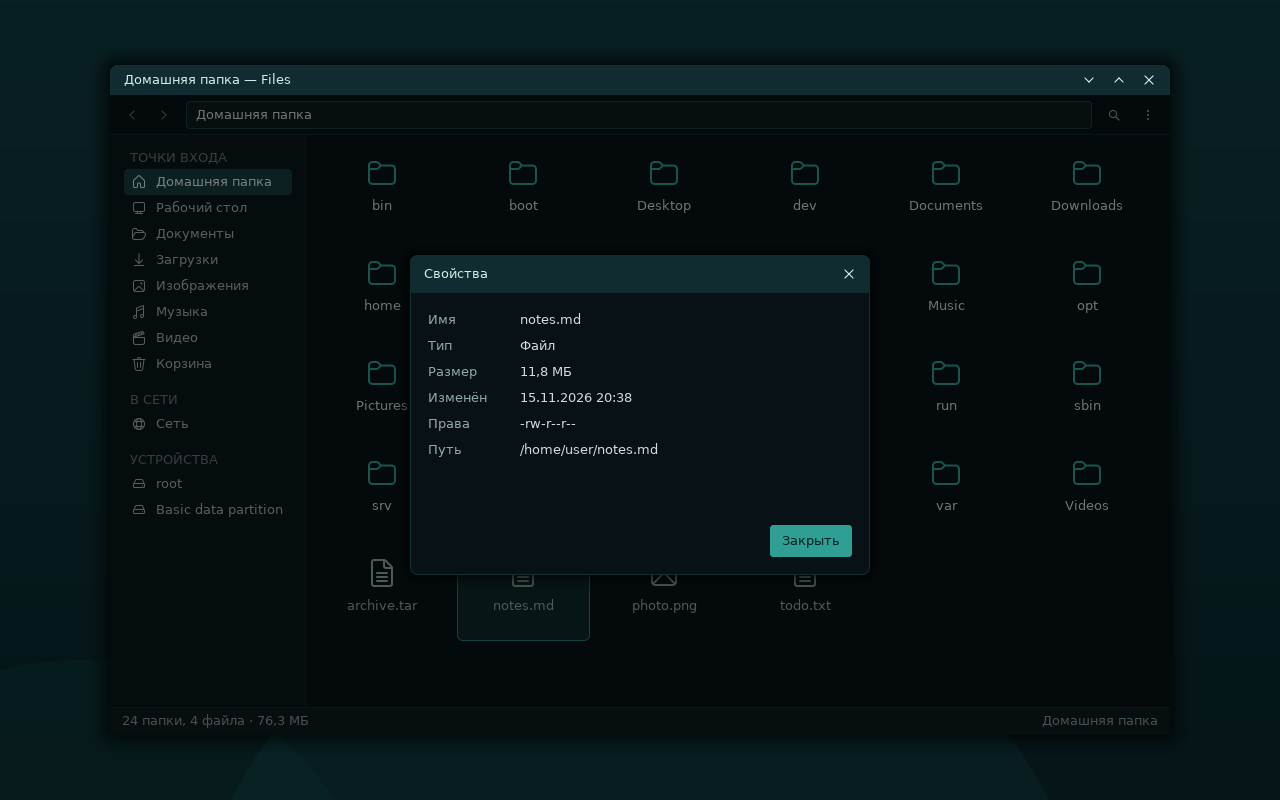
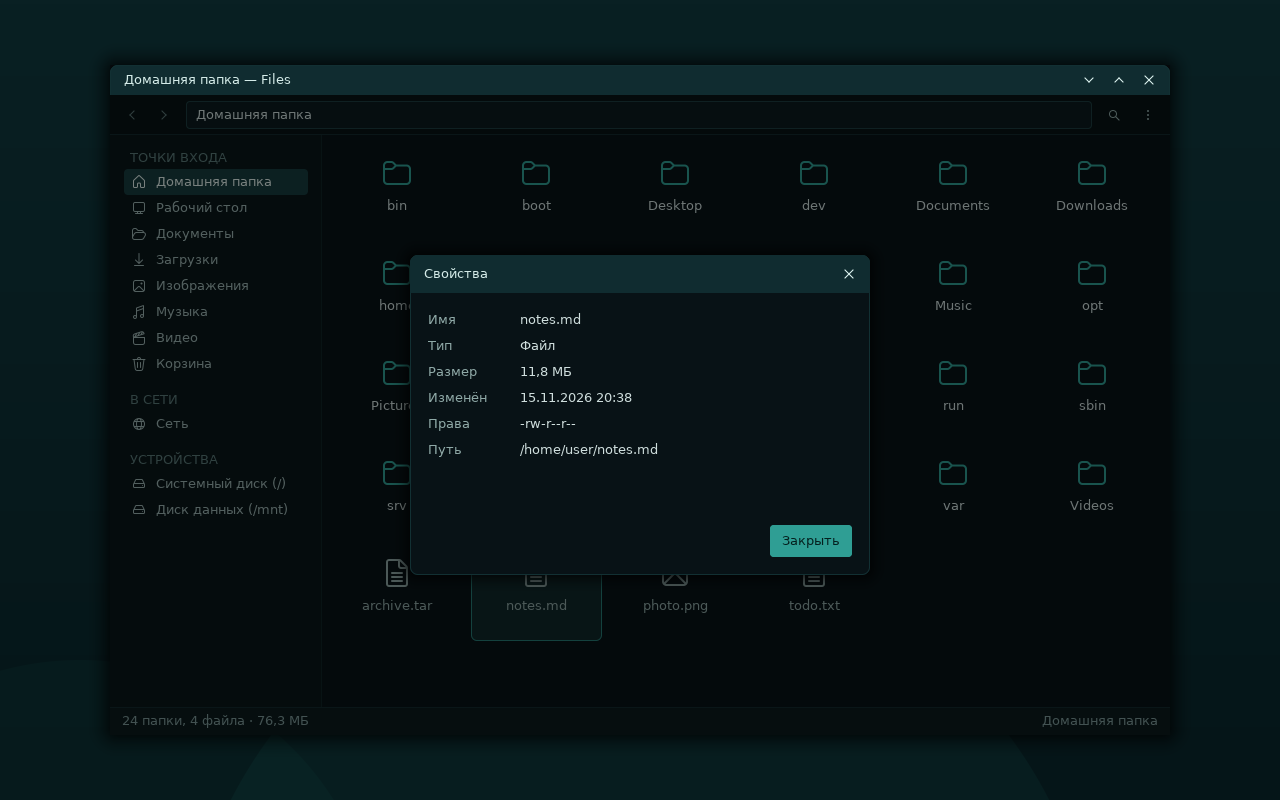
files: label devices by role with their mount paths
Секция «УСТРОЙСТВА» показывала «root» и «Basic data partition» — это имя
раздела из таблицы Windows (GPT type name) и латинское «root», поэтому
пользователь не мог понять, куда ведёт пункт и не демо ли это. Подписи
теперь называют роль диска и всегда несут точку монтирования:
«Системный диск (/)» для корня VFS и «Диск данных (/mnt)» для
персистентного ext2. Пути — те же реальные (prune_missing_devices и
навигация не менялись), меняется только текст.

Подпись с путём шире прежней, поэтому sidebar_width в pagh-ui поднят
196 -> 212: при 196 List обрезал её многоточием («Диск данных (/m…») и
путь — единственное, ради чего подпись переписана, — исчезал. Метрику
потребляет только Files.

Тесты (crate, поверх FakeVfs): двойной клик по каталогу в сетке меняет
cwd и показывает листинг цели; Enter по выделенному кликом каталогу
навигирует; клик по обоим устройствам открывает реальный листинг их
точек монтирования (в /mnt и / заранее создан маркер); подписи
устройств содержат пути. Golden-хеши шести демо-сцен и PNG обновлены —
подписи видны в боковой панели, других изменений в кадре нет.

diff --git a/rust-apps/pagh-files/src/app.rs b/rust-apps/pagh-files/src/app.rs
@@ -2239,8 +2239,11 @@ fn clamp_menu_origin(theme: &Theme, menu: &Menu, origin: Point, bounds: Rect) ->
 /// ФС-бэкенда в Files нет, поэтому она открывается пустой с честным
 /// «Нет сетевых ресурсов» (см. [`FilesApp::reload`]), без фальшивого листинга.
 ///
-/// Устройства — реальные точки монтирования Pagh: `/` — корень VFS, `/mnt` —
-/// смонтированный ext2 (см. `boot.rs`); пункт, которого нет в VFS, отсеивает
+/// Устройства — реальные точки монтирования Pagh, подписанные по-человечески
+/// и всегда вместе с путём, чтобы их нельзя было спутать ни с разделами
+/// Windows («Basic data partition»), ни с демо-путями: `/` — «Системный диск
+/// (/)» (корень VFS), `/mnt` — «Диск данных (/mnt)» (смонтированный ext2, см.
+/// `boot.rs`). Пункт, которого нет в VFS, отсеивает
 /// [`FilesApp::prune_missing_devices`]. Ни `/boot`, ни `/mnt/basic` в дереве
 /// ядра не существуют, поэтому их здесь нет.
 fn default_places(home: &str) -> Vec<Place> {
@@ -2310,14 +2313,14 @@ fn default_places(home: &str) -> Vec<Place> {
         },
         Place {
             id: 10,
-            label: "root".to_string(),
+            label: "Системный диск (/)".to_string(),
             glyph: FluentIcon::Drive,
             path: "/".to_string(),
             kind: PlaceKind::Device,
         },
         Place {
             id: 11,
-            label: "Basic data partition".to_string(),
+            label: "Диск данных (/mnt)".to_string(),
             glyph: FluentIcon::Drive,
             path: "/mnt".to_string(),
             kind: PlaceKind::Device,
@@ -2384,6 +2387,13 @@ mod tests {
             button: MouseButton::Left,
         });
         place.path
+    }
+
+    fn entry_index(app: &FilesApp, name: &str) -> usize {
+        app.entries()
+            .iter()
+            .position(|entry| entry.name == name)
+            .unwrap_or_else(|| panic!("нет записи {name:?}"))
     }
 
     fn temp_home(tag: &str) -> std::path::PathBuf {
@@ -2614,14 +2624,140 @@ mod tests {
         );
     }
 
-    /// Смонтированный `/mnt` показывается и открывается.
+    /// Смонтированный `/mnt` показывается подписанным по-человечески и
+    /// открывает настоящий листинг этой точки монтирования — не пустую
+    /// заглушку и не прежний каталог.
     #[test]
     fn mounted_device_opens() {
-        let mut app = FilesApp::new(Box::new(FakeVfs::new()), SIZE);
-        assert!(app.places().iter().any(|place| place.path == "/mnt"));
-        let path = click_place(&mut app, "Basic data partition");
+        let mut vfs = FakeVfs::new();
+        vfs.file_with_contents("/mnt/маркер.txt", b"disk")
+            .expect("файл на диске данных");
+        let mut app = FilesApp::new(Box::new(vfs), SIZE);
+
+        let place = app
+            .places()
+            .iter()
+            .find(|place| place.path == "/mnt")
+            .expect("устройство /mnt");
+        assert_eq!(place.kind, PlaceKind::Device);
+        assert_eq!(place.label, "Диск данных (/mnt)");
+
+        let path = click_place(&mut app, "Диск данных (/mnt)");
         assert_eq!(path, "/mnt");
         assert_eq!(app.cwd(), "/mnt");
         assert!(app.error().is_none(), "{:?}", app.error());
+        let names: Vec<&str> = app
+            .entries()
+            .iter()
+            .map(|entry| entry.name.as_str())
+            .collect();
+        assert!(names.contains(&"маркер.txt"), "листинг /mnt: {names:?}");
+        assert!(names.contains(&"basic"), "листинг /mnt: {names:?}");
+    }
+
+    /// Двойной клик по каталогу в сетке — настоящая навигация: меняется cwd,
+    /// перечитывается содержимое, история позволяет вернуться.
+    #[test]
+    fn double_click_directory_in_grid_changes_cwd() {
+        let mut vfs = FakeVfs::new();
+        vfs.file_with_contents("/home/user/Documents/план.txt", b"ok")
+            .expect("файл в Documents");
+        let mut app = FilesApp::new(Box::new(vfs), SIZE);
+        assert_eq!(app.cwd(), "/home/user");
+
+        let index = entry_index(&app, "Documents");
+        let rect = app.item_rect(index).expect("ячейка Documents");
+        app.handle_event(&Event::DoubleClick { pos: rect.center() });
+
+        assert_eq!(app.cwd(), "/home/user/Documents");
+        assert_eq!(app.title(), "Документы — Files");
+        assert!(app.can_go_back());
+        let names: Vec<&str> = app
+            .entries()
+            .iter()
+            .map(|entry| entry.name.as_str())
+            .collect();
+        assert_eq!(names, ["план.txt"]);
+    }
+
+    /// Enter по выделенному каталогу навигирует: выделение ставится обычным
+    /// кликом, открытие идёт тем же `open_entries`, что и двойной клик.
+    #[test]
+    fn enter_on_selected_directory_navigates() {
+        let mut vfs = FakeVfs::new();
+        vfs.file_with_contents("/home/user/Documents/план.txt", b"ok")
+            .expect("файл в Documents");
+        let mut app = FilesApp::new(Box::new(vfs), SIZE);
+
+        let index = entry_index(&app, "Documents");
+        let rect = app.item_rect(index).expect("ячейка Documents");
+        app.handle_event(&Event::MouseDown {
+            pos: rect.center(),
+            button: MouseButton::Left,
+        });
+        assert_eq!(
+            app.selected().map(|entry| entry.name.as_str()),
+            Some("Documents")
+        );
+
+        app.handle_event(&Event::Key {
+            key: Key::Enter,
+            pressed: true,
+            modifiers: Modifiers::NONE,
+        });
+        assert_eq!(app.cwd(), "/home/user/Documents");
+        let names: Vec<&str> = app
+            .entries()
+            .iter()
+            .map(|entry| entry.name.as_str())
+            .collect();
+        assert_eq!(names, ["план.txt"]);
+    }
+
+    /// Корень VFS («Системный диск (/)») тоже открывает реальный листинг:
+    /// маркер, созданный в корне, виден, а записи домашнего каталога — нет.
+    #[test]
+    fn system_disk_opens_root_listing() {
+        let mut vfs = FakeVfs::new();
+        vfs.mkdir_all("/srv").expect("каталог в корне");
+        let mut app = FilesApp::new(Box::new(vfs), SIZE);
+
+        let path = click_place(&mut app, "Системный диск (/)");
+        assert_eq!(path, "/");
+        assert_eq!(app.cwd(), "/");
+        assert!(app.error().is_none(), "{:?}", app.error());
+        let names: Vec<&str> = app
+            .entries()
+            .iter()
+            .map(|entry| entry.name.as_str())
+            .collect();
+        assert!(names.contains(&"srv"), "листинг /: {names:?}");
+        assert!(names.contains(&"mnt"), "листинг /: {names:?}");
+        assert!(!names.contains(&"Documents"), "листинг /: {names:?}");
+    }
+
+    /// Подпись устройства несёт путь монтирования, поэтому пункт нельзя
+    /// спутать ни с разделом Windows, ни с демо-каталогом.
+    #[test]
+    fn device_labels_carry_mount_paths() {
+        let app = FilesApp::new(Box::new(FakeVfs::new()), SIZE);
+        let devices: Vec<(&str, &str)> = app
+            .places()
+            .iter()
+            .filter(|place| place.kind == PlaceKind::Device)
+            .map(|place| (place.label.as_str(), place.path.as_str()))
+            .collect();
+        assert_eq!(
+            devices,
+            [("Системный диск (/)", "/"), ("Диск данных (/mnt)", "/mnt"),]
+        );
+        for (label, path) in devices {
+            assert!(
+                label.contains(&format!("({path})")),
+                "подпись {label:?} не содержит путь {path:?}"
+            );
+            assert_ne!(label, "root");
+            assert_ne!(label, "Basic data partition");
+        }
     }
 }

diff --git a/rust-apps/pagh-files/tests/screenshots.rs b/rust-apps/pagh-files/tests/screenshots.rs
@@ -12,38 +12,38 @@ use pagh_ui::testkit;
 fn main_scene_matches_golden() {
     let canvas = screenshots::main_scene();
     assert_eq!(canvas.size(), screenshots::DESKTOP);
-    testkit::assert_golden("files-main", &canvas, 0x611a_e010_6533_2722);
+    testkit::assert_golden("files-main", &canvas, 0x24e8_3d30_68d0_0dfd);
 }
 
 #[test]
 fn context_menu_scene_matches_golden() {
     let canvas = screenshots::context_menu_scene();
     assert_eq!(canvas.size(), Size::new(1280, 800));
-    testkit::assert_golden("files-context-menu", &canvas, 0x2d6c_fb23_401a_a477);
+    testkit::assert_golden("files-context-menu", &canvas, 0x4570_b0d8_7f1c_52d9);
 }
 
 #[test]
 fn properties_scene_matches_golden() {
     let canvas = screenshots::properties_scene();
-    testkit::assert_golden("files-properties", &canvas, 0x45c9_5f44_ed4d_699b);
+    testkit::assert_golden("files-properties", &canvas, 0x293c_f128_98fd_b8bd);
 }
 
 #[test]
 fn list_view_scene_matches_golden() {
     let canvas = screenshots::list_view_scene();
-    testkit::assert_golden("files-list-view", &canvas, 0x0554_1516_314d_c346);
+    testkit::assert_golden("files-list-view", &canvas, 0xab43_4f47_90a9_1351);
 }
 
 #[test]
 fn search_scene_matches_golden() {
     let canvas = screenshots::search_scene();
-    testkit::assert_golden("files-search", &canvas, 0x143a_dc5f_05f9_3bd6);
+    testkit::assert_golden("files-search", &canvas, 0x9c34_7d11_6b08_2e4d);
 }
 
 #[test]
 fn empty_folder_scene_matches_golden() {
     let canvas = screenshots::empty_folder_scene();
-    testkit::assert_golden("files-empty", &canvas, 0xd5cd_3f35_d1e6_e6e9);
+    testkit::assert_golden("files-empty", &canvas, 0x03c7_a0b2_d14c_6512);
 }
 
 #[test]

diff --git a/rust-apps/pagh-ui/src/theme.rs b/rust-apps/pagh-ui/src/theme.rs
@@ -110,7 +110,9 @@ pub struct Metrics {
     pub toolbar_height: i32,
     /// Высота строки состояния.
     pub status_height: i32,
-    /// Ширина боковой панели.
+    /// Ширина боковой панели. Files подписывает устройства путём монтирования
+    /// («Диск данных (/mnt)»), поэтому ширина обязана вмещать такую подпись:
+    /// меньше ~204 px — и `List` обрезает путь многоточием.
     pub sidebar_width: i32,
     /// Высота строки списка.
     pub row_height: i32,
@@ -199,7 +201,7 @@ impl Theme {
                 title_height: 30,
                 toolbar_height: 40,
                 status_height: 28,
-                sidebar_width: 196,
+                sidebar_width: 212,
                 row_height: 26,
                 menu_row_height: 28,
                 menu_padding: 6,
@@ -235,7 +237,7 @@ mod tests {
         assert_eq!(theme.palette.accent, Color::hex(0x2f9e94));
         assert_eq!(theme.palette.folder_front, Color::hex(0x3788c8));
         assert_eq!(theme.metrics.title_height, 30);
-        assert_eq!(theme.metrics.sidebar_width, 196);
+        assert_eq!(theme.metrics.sidebar_width, 212);
     }
 
     #[test]

diff --git a/rust-apps/pagh-files/README.md b/rust-apps/pagh-files/README.md
@@ -21,7 +21,8 @@
 
 - **Боковая панель** с секциями «ТОЧКИ ВХОДА» (Домашняя папка, Рабочий стол,
   Документы, Загрузки, Изображения, Музыка, Видео, Корзина), «В СЕТИ» и
-  «УСТРОЙСТВА» (boot, Basic data partition, root). Клик — переход в каталог.
+  «УСТРОЙСТВА» («Системный диск (/)», «Диск данных (/mnt)» — подпись всегда
+  несёт точку монтирования). Клик — переход в каталог.
 - **Панель инструментов**: назад/вперёд с историей, редактируемое поле пути
   (Enter — переход), поиск по текущей папке (скрывается по Escape), меню-«кебаб».
 - **Сетка значков** с центрированными подписями; синяя папка с листом бумаги
